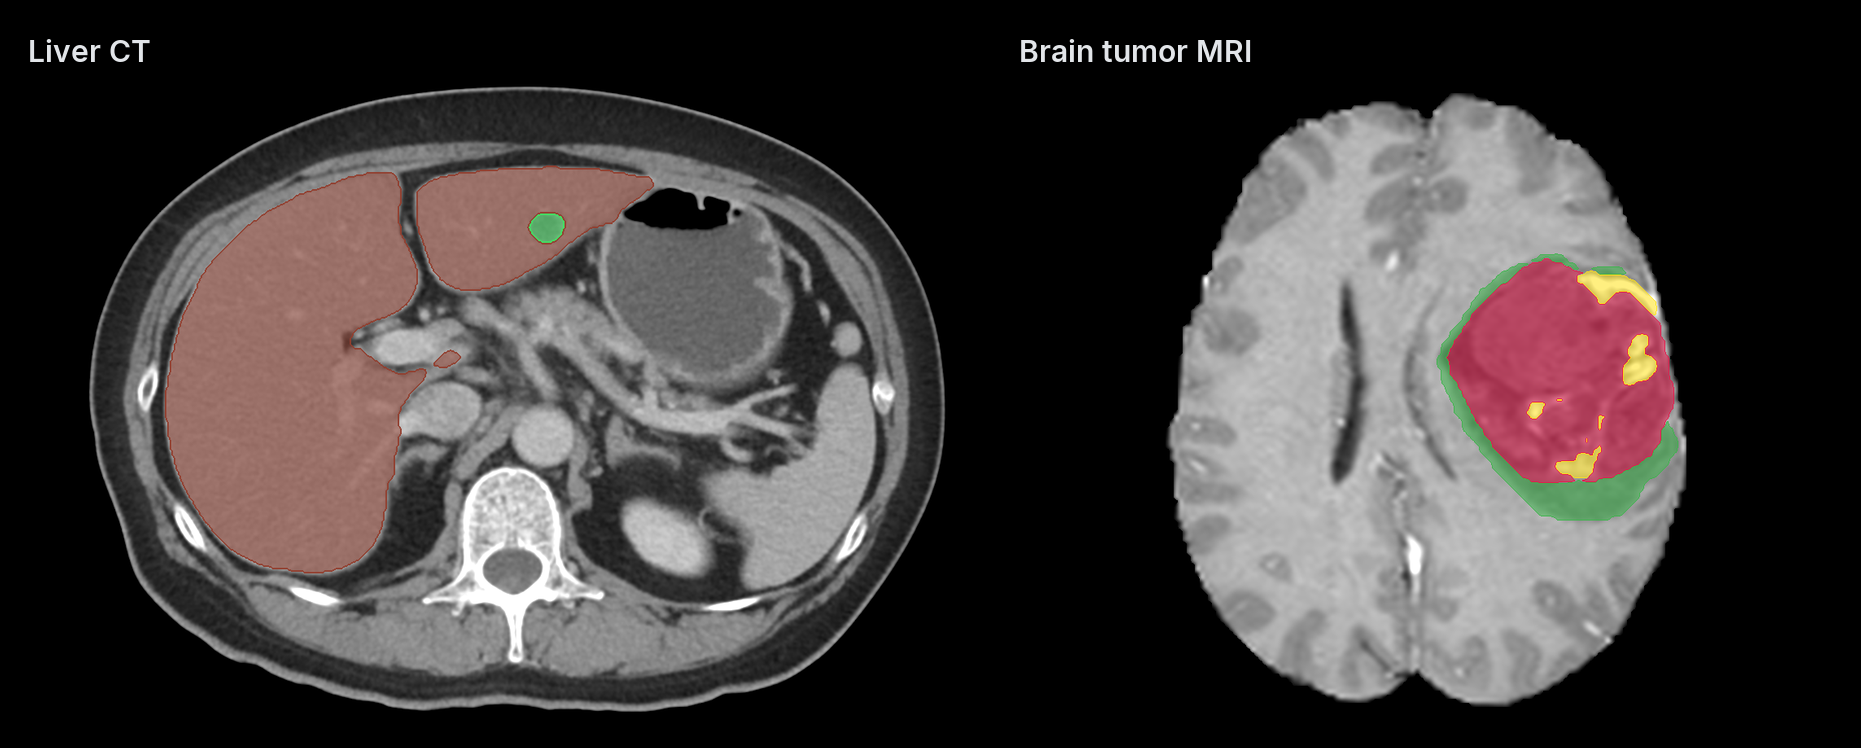
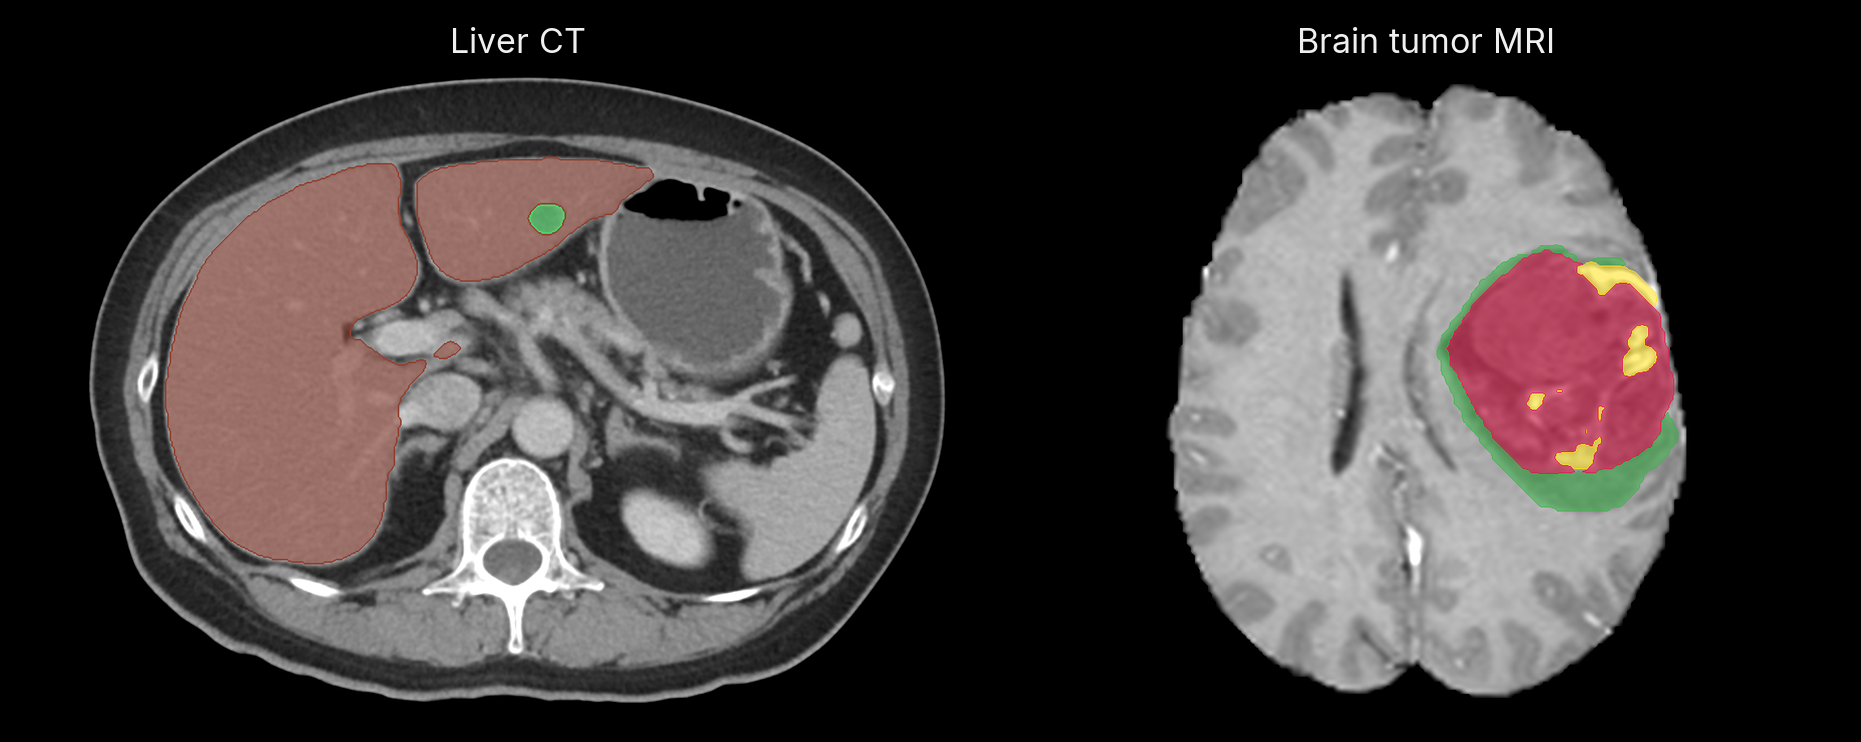
Relabel the README hero in Inter and load it from main
Titles and legend are redrawn in Inter Regular at a size proportional to the image width and centered over each panel. Image panels are unchanged.

diff --git a/README.md b/README.md
@@ -13,7 +13,7 @@ Run pretrained nnU-Net v2 models locally on Apple Silicon with native MLX.
 
 [Liver model weights](https://huggingface.co/MedMLX/nnunet-liver-mlx) · [Upstream](https://github.com/MIC-DKFZ/nnUNet) · [MedMLX](https://github.com/MedMLX/medmlx)
 
-<img src="https://raw.githubusercontent.com/MedMLX/nnunet-mlx/v0.7.2/docs/example.png" alt="nnU-Net segmentations of a liver CT and a brain tumor MRI" width="100%">
+<img src="https://raw.githubusercontent.com/MedMLX/nnunet-mlx/main/docs/example.png" alt="nnU-Net segmentations of a liver CT and a brain tumor MRI" width="100%">
 
 </div>
 
